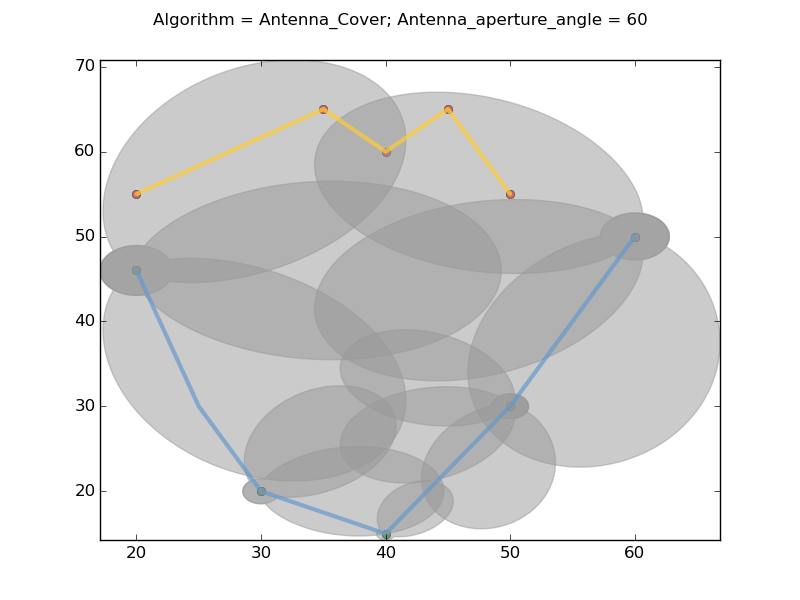
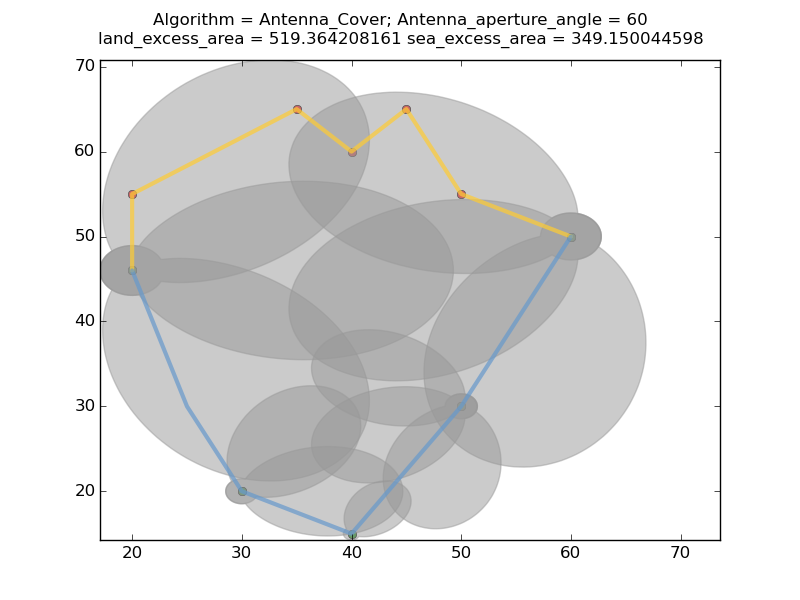
Equal scales on x and y axes.

diff --git a/circlecover/test/printcover.py b/circlecover/test/printcover.py
@@ -104,7 +104,9 @@ def printAntennaCircleCover(testName,testCircle,cover,coverage_file,points_to_co
     f.close()
 
 
-def printAntennaCover(testName, interference_contour, possible_centers,  cover, coverage_file, antenna_angle, min_separation):
+def printAntennaCover(testName, interference_contour, 
+                      possible_centers, cover, coverage_file, 
+                      antenna_angle, min_separation):
     result = {}
     angles =  [c.angle for c in cover  ]
     indices = [c.index for c in cover   ]
@@ -256,14 +258,22 @@ def show_results_for_antenna_cover(fileName):
         p = PolygonPatch(rotated_translated_cover, fc=GRAY, ec=GRAY, alpha=0.5, zorder=2)
         ax.add_patch(p)
 
-    xmin = float(circ.bounds[0])
-    ymin = float(circ.bounds[1])
-    xmax = float(circ.bounds[2])
-    ymax = float(circ.bounds[3])
-    ax.set_xlim([xmin,xmax])
-    ax.set_ylim([ymin,ymax])
+    xmin,ymin,xmax,ymax = circ.bounds
+
+    #xmin = float(circ.bounds[0])
+    #ymin = float(circ.bounds[1])
+    #xmax = float(circ.bounds[2])
+    #ymax = float(circ.bounds[3])
+
+    delta = max(abs(xmax -xmin),abs(ymax-ymin))
+    
+    ax.set_xlim([xmin,xmin+delta])
+    ax.set_ylim([ymin,ymin+delta])
     antenna_aperture = result['antenna_aperture']
-    title = "Algorithm = " + "Antenna_Cover; Antenna_aperture_angle = "  + str(antenna_aperture)
+    land_excess_area = result["land_excess_area"]
+    sea_excess_area = result["sea_excess_area"]
+    title = "Algorithm = " + "Antenna_Cover; Antenna_aperture_angle = "  + str(antenna_aperture) +\
+            "\nland_excess_area = " + str(land_excess_area) + " sea_excess_area = " + str(sea_excess_area)
     plt.suptitle(title)
     plt.gcf().canvas.set_window_title(result["testName"] +  "_Antenna_" + str(antenna_aperture))
     mpl.rcParams["savefig.directory"] = os.chdir(os.path.dirname(fileName))
